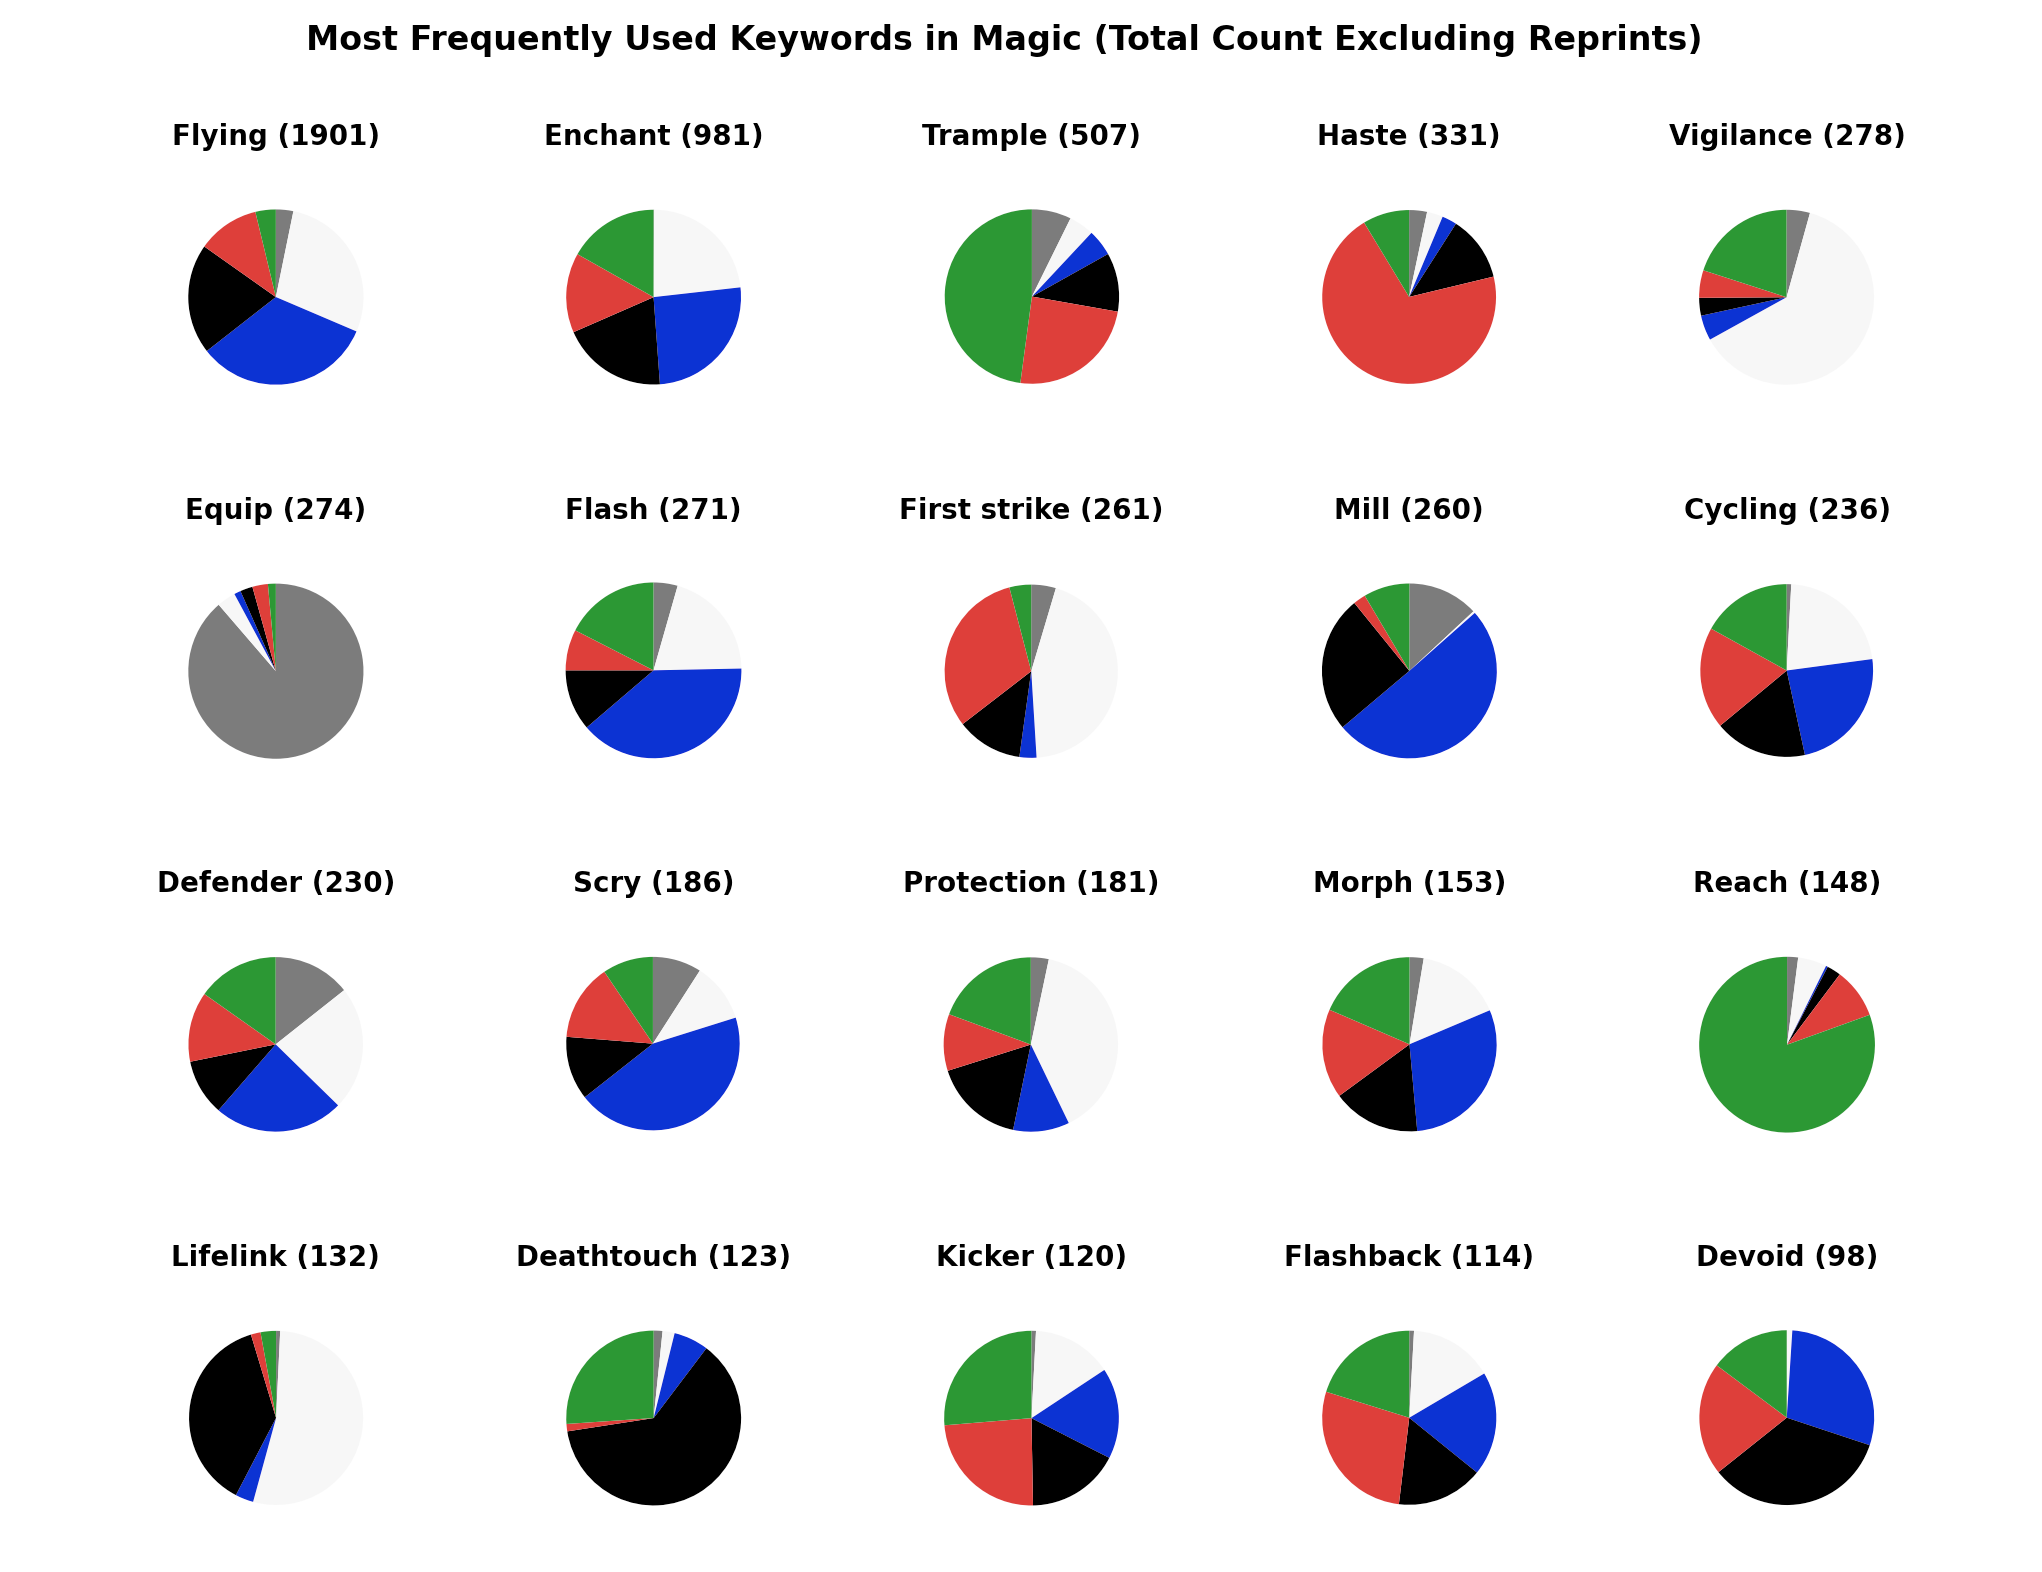
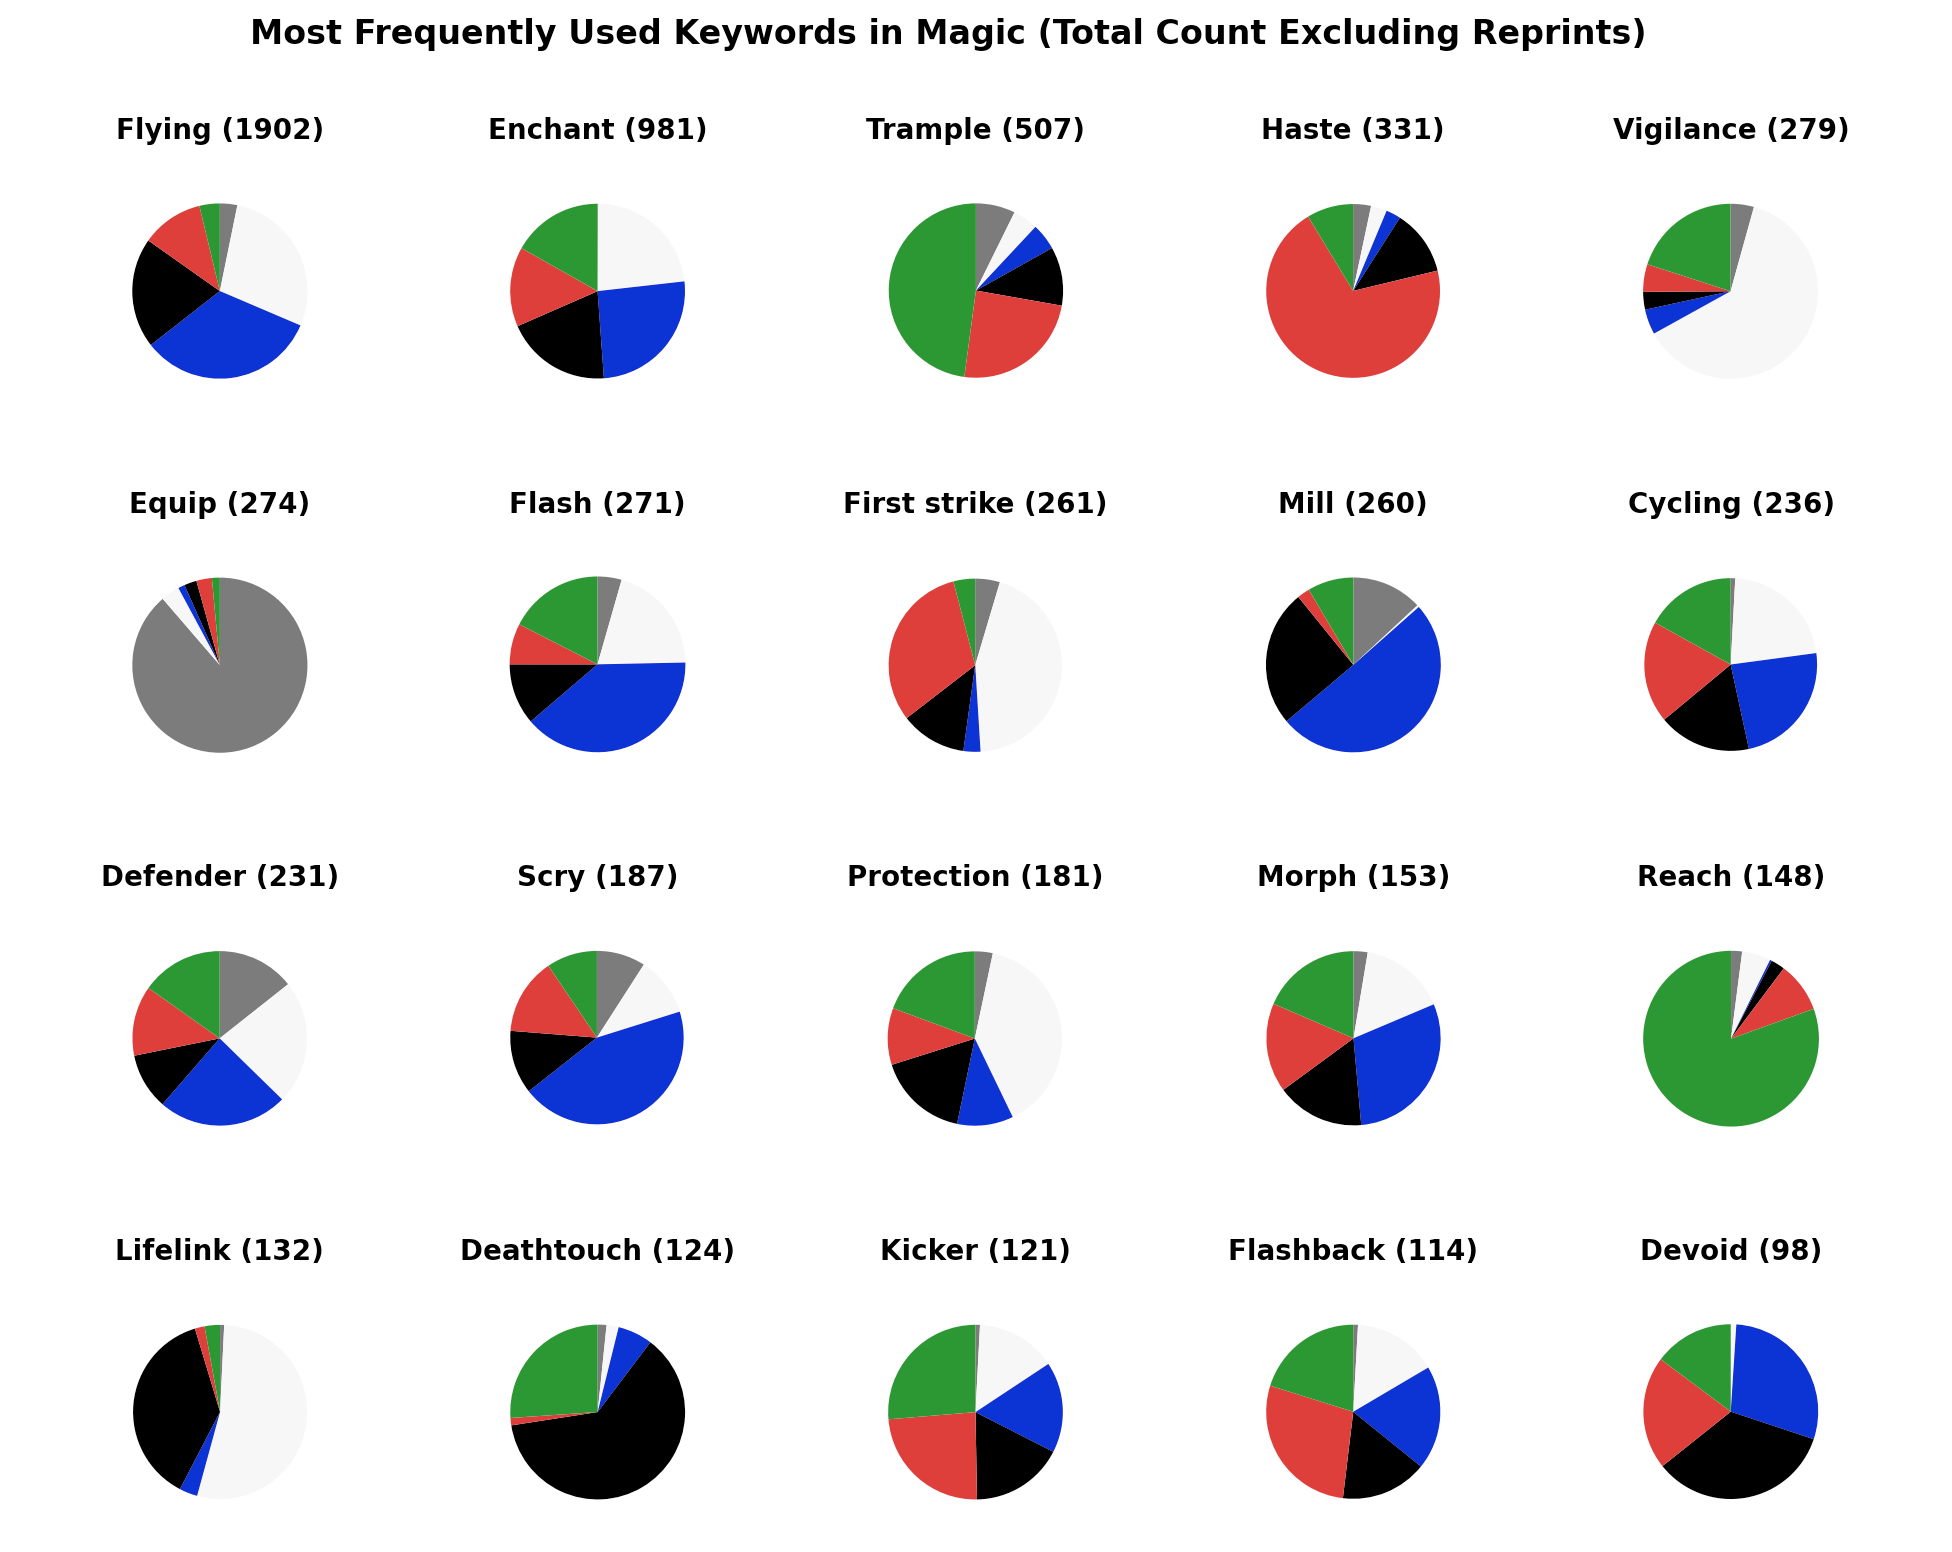
update output graph

diff --git a/graph_data.py b/graph_data.py
@@ -3,6 +3,7 @@
 import numpy
 import matplotlib.pyplot as plt
 import ast
+import math
 
 def result_data():
     #reads the txt file and returns the data, ordered by total counts, in this format [(total count, key word, list of counts by color)]
@@ -23,7 +24,7 @@ fig.subplots_adjust(wspace=0.95, hspace=0.30, top=0.90, bottom=0.02)
 colors = ['dimgrey', 'whitesmoke', 'mediumblue', 'black', 'tab:red','forestgreen']
     
 for ax, (keyWordSum, KeyWordTitle, keyWordData) in zip(axes.flatten(), data):    
-    KeyWordTitle += ' ({})'.format(int(keyWordSum))
+    KeyWordTitle += ' ({})'.format(int(math.ceil(keyWordSum)))
     ax.set_title(KeyWordTitle, weight='bold', size='medium', position=(0.5, 1.1),
         horizontalalignment='center', verticalalignment='center')
     ax.pie(keyWordData, colors=colors, 
